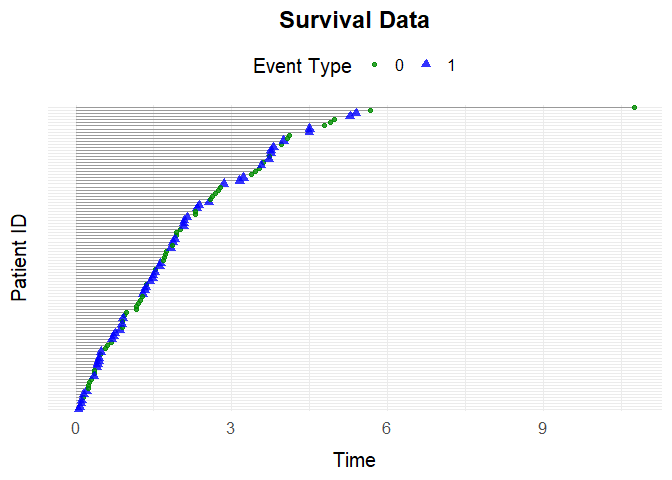
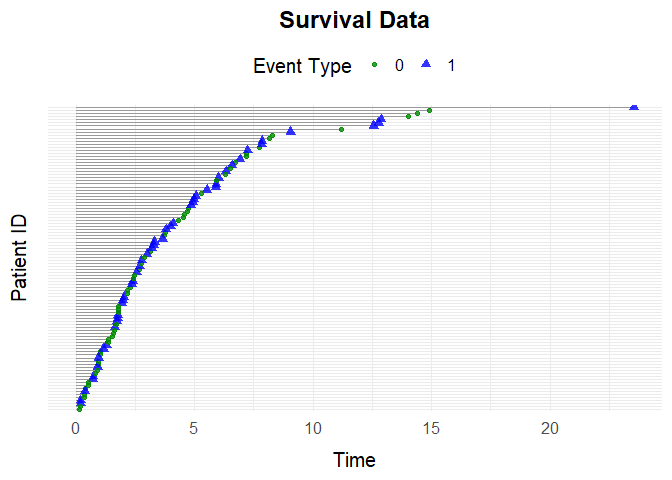
Updated readme

diff --git a/README.md b/README.md
@@ -107,7 +107,7 @@ provided.
 
 | Function | Description | Key Arguments | Example |
 |----|----|----|----|
-| `simEventCox()` | Simulates new data using fitted Cox proportional hazard models | `N`, `cox_fits`, `L0_old`, `A0_old` | `simEventCox(N, cox_fits, L0_old, A0_old)` |
+| `simEventCox()` | Simulates new data using fitted Cox proportional hazard models | `N`, `cox_fits`, `list_old_vars` | `simEventCox(N, cox_fits, list_old_vars = list_old_vars)` |
 | `simEventObj()` | Simulates new data using a general model | `N`, `obj`, `list_old_vars` | `simEventObj(100, obj, list_old_vars = list_old_vars)` |
 
 **Functions for performing interventions**
@@ -298,8 +298,8 @@ data <- simEventData(N = 1000, beta = beta, add_cov = add_cov, at_risk = at_risk
                      override_beta = list("L0" = c("N0" = 0, "N1" = 0)))
 ```
 
-You can also specify non-linear effects, e.g., effect of on set to zero
-if :
+You can also specify non-linear effects, e.g., effect of on to increase
+by 2 if :
 
 ``` r
 data <- simEventData(N = 1000, beta = beta, add_cov = add_cov, at_risk = at_risk,
@@ -307,12 +307,21 @@ data <- simEventData(N = 1000, beta = beta, add_cov = add_cov, at_risk = at_risk
 ```
 
 Additionally the argument can be used to specify interaction effects,
-e.g., if we want an interaction effect of 1 between L0 and N1 on N2 we
+e.g., if we want an interaction effect of 1 between L0 and N3 on N1 we
 can specify the argument:
 
 ``` r
-data <- simEventData(N = 1000, beta = beta, add_cov = add_cov, at_risk = at_risk,
-                     override_beta =list("L0 * N1" = c("N2" = 1)))
+data <- simEventData(N = 3*10^4, beta = beta, add_cov = add_cov, at_risk = at_risk,
+                     override_beta =list("L0 * N3" = c("N1" = 1)))
+```
+
+A further example of the arguments use, is that we can use it to specify
+effects that depend on time. E.g. if we wish for an additional effect on
+N2 of 0.4 if T1 \> 1, then we can simulate as follows
+
+``` r
+data <- simEventData(N = 10000, beta = beta, add_cov = add_cov, at_risk = at_risk,
+                     override_beta =list("T1 > 1" = c("N2" = 1)))
 ```
 
 ## Example 2: Survival Data with `simSurvData`
@@ -328,7 +337,7 @@ data <- simSurvData(100)
 plotEventData(data, title = "Survival Data")
 ```
 
-<img src="man/figures/README-unnamed-chunk-17-1.png" width="100%" />
+<img src="man/figures/README-unnamed-chunk-18-1.png" width="100%" />
 
 You can specify how baseline covariates and affect the risk of censoring
 and death through the matrix. For example:
@@ -359,7 +368,7 @@ data <- simSurvData(100, beta = beta, eta = eta, nu = nu)
 plotEventData(data, title = "Survival Data")
 ```
 
-<img src="man/figures/README-unnamed-chunk-20-1.png" width="100%" />
+<img src="man/figures/README-unnamed-chunk-21-1.png" width="100%" />
 
 ## Example 3: Competing Risk Data with `simCRdata`
 
@@ -370,7 +379,7 @@ data <- simCRdata(100)
 plotEventData(data, title = "Competing Risk Data")
 ```
 
-<img src="man/figures/README-unnamed-chunk-21-1.png" width="100%" />
+<img src="man/figures/README-unnamed-chunk-22-1.png" width="100%" />
 
 ## Example 4: Health Care Data with `simDisease`
 
@@ -400,7 +409,7 @@ data <- simDisease(N = 100,
 plotEventData(data, title = "Disease data")
 ```
 
-<img src="man/figures/README-unnamed-chunk-22-1.png" width="100%" />
+<img src="man/figures/README-unnamed-chunk-23-1.png" width="100%" />
 
 ## Example 5: Health Care Data with `simTreatment`
 
@@ -433,7 +442,7 @@ Plot
 plotEventData(data, title = "Treatment setting")
 ```
 
-<img src="man/figures/README-unnamed-chunk-25-1.png" width="100%" />
+<img src="man/figures/README-unnamed-chunk-26-1.png" width="100%" />
 
 ## Example 6: Time Varying Effects with `simEventTV`
 
@@ -456,7 +465,7 @@ data <- simEventTV(N = 100, t_prime = t_prime, tv_eff = tv_eff, eta = eta,
 plotEventData(data)
 ```
 
-<img src="man/figures/README-unnamed-chunk-26-1.png" width="100%" />
+<img src="man/figures/README-unnamed-chunk-27-1.png" width="100%" />
 
 ## Example 7: Simulating data from data
 
@@ -483,7 +492,8 @@ models as arguments:
 
 ``` r
 cox_fits <- list("Process 1" = cox1, "Process 2" = cox2)
-new_data <- simEventCox(100, cox_fits, L0_old = data$L0, A0_old = data$A0)
+list_old_vars <- list("L0" = data$L0, "A0" = data$A0)
+new_data <- simEventCox(100, cox_fits, list_old_vars = list_old_vars)
 ```
 
 The new simulated data looks like:
@@ -492,13 +502,13 @@ The new simulated data looks like:
 head(new_data)
 #> Key: <ID>
 #>       ID      Time Delta        L0    A0 Process 1 Process 2
-#>    <int>     <num> <int>     <num> <num>     <num>     <num>
-#> 1:     1  2.175382     1 0.5363954     0         1         0
-#> 2:     2  7.139631     1 0.3144497     0         1         0
-#> 3:     3  2.766344     1 0.9335247     1         1         0
-#> 4:     4  3.570241     2 0.2502356     0         0         1
-#> 5:     4 12.695609     1 0.2502356     0         1         1
-#> 6:     5  5.055418     1 0.5462261     1         1         0
+#>    <int>     <num> <num>     <num> <num>     <num>     <num>
+#> 1:     1  2.175382     0 0.5363954     0         1         0
+#> 2:     2  7.139631     0 0.3144497     0         1         0
+#> 3:     3  2.766344     0 0.9335247     1         1         0
+#> 4:     4  3.570241     1 0.2502356     0         0         1
+#> 5:     4 12.695609     0 0.2502356     0         1         1
+#> 6:     5  5.055418     0 0.5462261     1         1         0
 ```
 
 ### Using `simEventObj`
